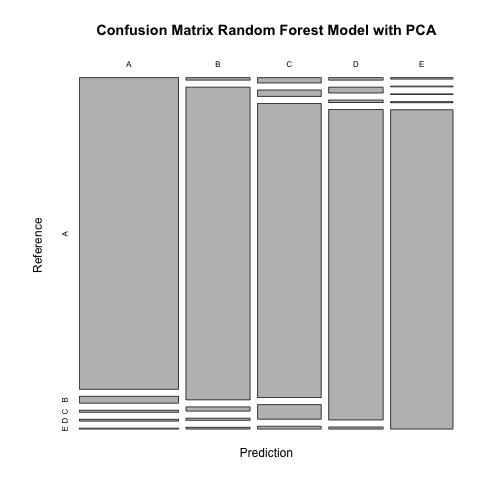
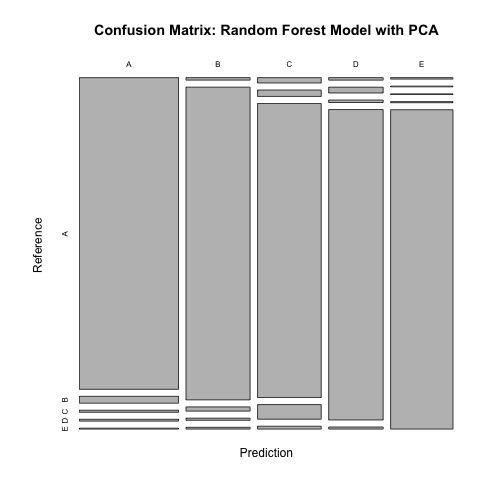
changed plot headings

Changed region(s): [[0.1786, 0.0298, 0.8631, 0.0893]]

diff --git a/PML-Project-bmca.html b/PML-Project-bmca.html
@@ -449,10 +449,10 @@ CV.3 &lt;- confusionMatrix(predictions.3, myTesting3$classe)
 ## Balanced Accuracy       0.981    0.962    0.973    0.960    0.986
 </code></pre>
 
-<pre><code class="r">plot(CV.3[[2]], main=&quot;Confusion Matrix Random Forest Model with PCA&quot;)
+<pre><code class="r">plot(CV.3[[2]], main=&quot;Confusion Matrix: Random Forest Model with PCA&quot;)
 </code></pre>
 
[2 lines of base64/hex data omitted]
 
 <p>This model did run more quickly, but because the estimated out-of-sample error was higher (as reflected by a slightly lower accuracy of 0.958), I decided to use the non-PCA-based model (my second model) for my final submission.</p>
 

diff --git a/PML-Project-bmca.md b/PML-Project-bmca.md
@@ -287,7 +287,7 @@ CV.3
 ```
 
 ```r
-plot(CV.3[[2]], main="Confusion Matrix Random Forest Model with PCA")
+plot(CV.3[[2]], main="Confusion Matrix: Random Forest Model with PCA")
 ```
 
 ![plot of chunk unnamed-chunk-2](figure/unnamed-chunk-2.png) 
